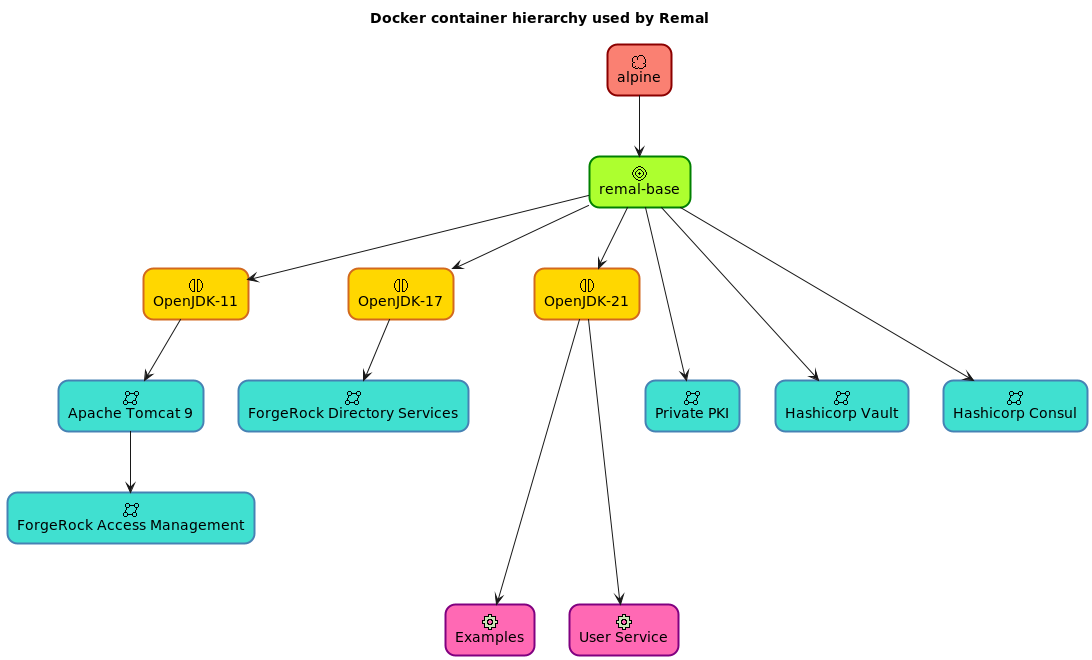
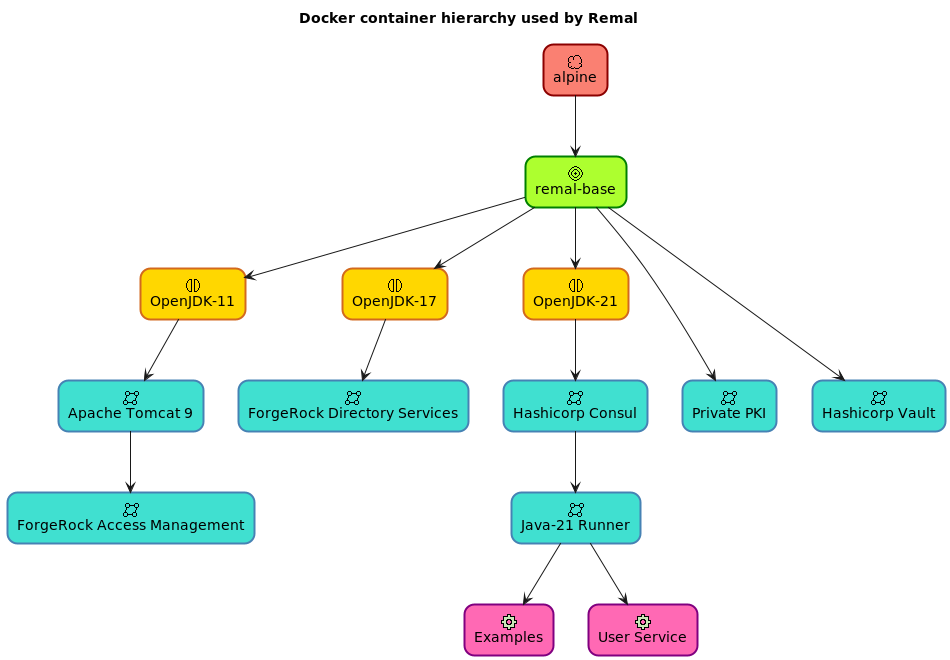
changing java version from 17 to 21 in java-runner

diff --git a/index.html b/index.html
@@ -67,22 +67,27 @@
             <th>Ports</th>
             <th>Commands</th>
         </tr>
-        <!-- User service -->
         <tr class="imagelist-content imagelist-app">
-            <td><span class="imagelist-col-margin">user-service</span></td>
-            <td><span class="imagelist-col-margin">Remal user rest api</span></td>
+            <td><span class="imagelist-col-margin">user-service-1</span></td>
+            <td><span class="imagelist-col-margin">Remal user service rest api</span></td>
             <td>
                 <table>
                     <tr>
-                        <td class="imagelist-port-host">13112</td>
+                        <td class="imagelist-port-host">14112</td>
                         <td>:</td>
                         <td class="imagelist-port-docker">22</td>
                         <td class="imagelist-port-info">(SSH)</td>
                     </tr>
                     <tr>
-                        <td class="imagelist-port-host">13113</td>
+                        <td class="imagelist-port-host">14113</td>
                         <td>:</td>
-                        <td class="imagelist-port-docker">443</td>
+                        <td class="imagelist-port-docker">8000</td>
+                        <td class="imagelist-port-info">(JVM debug)</td>
+                    </tr>
+                    <tr>
+                        <td class="imagelist-port-host">14114</td>
+                        <td>:</td>
+                        <td class="imagelist-port-docker">8443</td>
                         <td class="imagelist-port-info">(HTTPS)</td>
                     </tr>
                     <tr>
@@ -93,7 +98,80 @@
                     </tr>
                 </table>
             </td>
-            <td class="imagelist-command"><span class="imagelist-col-margin"></span></td>
+            <td class="imagelist-command"><span class="imagelist-col-margin">
+                <a href="https://localhost:14114/api/user" target="_blank">https://localhost:14114/api/user</a></span>
+            </td>
+        </tr>
+        <tr class="imagelist-content imagelist-app">
+            <td><span class="imagelist-col-margin">user-service-2</span></td>
+            <td><span class="imagelist-col-margin">Remal user service rest api</span></td>
+            <td>
+                <table>
+                    <tr>
+                        <td class="imagelist-port-host">14122</td>
+                        <td>:</td>
+                        <td class="imagelist-port-docker">22</td>
+                        <td class="imagelist-port-info">(SSH)</td>
+                    </tr>
+                    <tr>
+                        <td class="imagelist-port-host">14123</td>
+                        <td>:</td>
+                        <td class="imagelist-port-docker">8000</td>
+                        <td class="imagelist-port-info">(JVM debug)</td>
+                    </tr>
+                    <tr>
+                        <td class="imagelist-port-host">14124</td>
+                        <td>:</td>
+                        <td class="imagelist-port-docker">8443</td>
+                        <td class="imagelist-port-info">(HTTPS)</td>
+                    </tr>
+                    <tr>
+                        <td class="imagelist-port-host"></td>
+                        <td>:</td>
+                        <td class="imagelist-port-docker">1331</td>
+                        <td class="imagelist-port-info">(container up signal)</td>
+                    </tr>
+                </table>
+            </td>
+            <td class="imagelist-command"><span class="imagelist-col-margin">
+                <a href="https://localhost:14124/api/user" target="_blank">https://localhost:14124/api/user</a></span>
+            </td>
+        </tr>
+        <!-- Hello service -->
+        <tr class="imagelist-content imagelist-app">
+            <td><span class="imagelist-col-margin">hello-service-1</span></td>
+            <td><span class="imagelist-col-margin">Remal hello service rest api</span></td>
+            <td>
+                <table>
+                    <tr>
+                        <td class="imagelist-port-host">14212</td>
+                        <td>:</td>
+                        <td class="imagelist-port-docker">22</td>
+                        <td class="imagelist-port-info">(SSH)</td>
+                    </tr>
+                    <tr>
+                        <td class="imagelist-port-host">14213</td>
+                        <td>:</td>
+                        <td class="imagelist-port-docker">8000</td>
+                        <td class="imagelist-port-info">(JVM debug)</td>
+                    </tr>
+                    <tr>
+                        <td class="imagelist-port-host">14214</td>
+                        <td>:</td>
+                        <td class="imagelist-port-docker">8443</td>
+                        <td class="imagelist-port-info">(HTTPS)</td>
+                    </tr>
+                    <tr>
+                        <td class="imagelist-port-host"></td>
+                        <td>:</td>
+                        <td class="imagelist-port-docker">1331</td>
+                        <td class="imagelist-port-info">(container up signal)</td>
+                    </tr>
+                </table>
+            </td>
+            <td class="imagelist-command"><span class="imagelist-col-margin">
+                <a href="https://localhost:14214/api/hello" target="_blank">https://localhost:14214/api/hello</a></span>
+            </td>
         </tr>
         <!-- HashiCorp Consul -->
         <tr class="imagelist-content imagelist-infra">

diff --git a/modules/templates/template-commons/src/main/java/com/remal/gombi/template/commons/spring/monitoring/MethodCallLogger.java b/modules/templates/template-commons/src/main/java/com/remal/gombi/template/commons/spring/monitoring/MethodCallLogger.java
@@ -63,15 +63,11 @@ public class MethodCallLogger {
 
     private String getReturnValueAsString(Object object) {
         if (Objects.nonNull(object)) {
-            /*return switch (object) {
-                case String s -> String.format("\"%s\"", object);
+            return switch (object) {
+                case String value -> "\"" + value + "\"";
+                case Integer value -> value.toString();
                 default -> object.toString();
-            };*/
-            if (object instanceof String) {
-                return String.format("\"%s\"", object);
-            } else {
-                return object.toString();
-            }
+            };
         }
         return "<null>";
     }

diff --git a/modules/templates/hello-service/src/main/java/com/remal/gombi/template/service/hello/controller/HelloController.java b/modules/templates/hello-service/src/main/java/com/remal/gombi/template/service/hello/controller/HelloController.java
@@ -42,7 +42,7 @@ public class HelloController {
     @LogCall
     public String sayHello() {
         User user = userService.getUser("arnold");
-        return String.format("Hello <b>%s</b>, the time is <b>%s</b>.",
+        return String.format("Hello %s, the time is %s.",
                 user.getUsername(),
                 LocalDateTime.now().format(DATE_TIME_FORMATTER));
     }

diff --git a/docker/README.md b/docker/README.md
@@ -127,20 +127,21 @@ File prefix ranges:
 
 Images and its types:
 
-| image           | type           | range         |
-|-----------------|----------------|---------------|
-| user-service-1  | Application    | 40100 - 40199 |
-| user-service-2  | Application    | 40200 - 40299 |
-| hello-service-1 | Application    | 40300 - 40399 |
-| hcp-consul      | Infrastructure | 30600 - 30699 |
-| hcp-vault       | Infrastructure | 30500 - 30599 |
-| forgerock-am    | Infrastructure | 30400 - 30499 |
-| forgerock-ds    | Infrastructure | 30300 - 30399 |
-| tomcat-9        | Infrastructure | 30200 - 30299 |
-| easy-rsa-pki    | Infrastructure | 30100 - 30199 |
-| openjdk-17      | Core           | 20200 - 20299 |
-| openjdk-11      | Core           | 20100 - 20199 |
-| base            | Base           | 10000 - 19999 |
+| image           | type           | range          |
+|-----------------|----------------|----------------|
+| user-service-1  | Application    | 40100 - 40199  |
+| user-service-2  | Application    | 40200 - 40299  |
+| hello-service-1 | Application    | 40300 - 40399  |
+| hcp-consul      | Infrastructure | 30600 - 30699  |
+| hcp-vault       | Infrastructure | 30500 - 30599  |
+| forgerock-am    | Infrastructure | 30400 - 30499  |
+| forgerock-ds    | Infrastructure | 30300 - 30399  |
+| tomcat-9        | Infrastructure | 30200 - 30299  |
+| easy-rsa-pki    | Infrastructure | 30100 - 30199  |
+| openjdk-21      | Core           | 20300 - 20399 |
+| openjdk-17      | Core           | 20200 - 20299  |
+| openjdk-11      | Core           | 20100 - 20199  |
+| base            | Base           | 10000 - 19999  |
 
 ## Annex 3) Troubleshooting
 **SSH**

diff --git a/docker/application/jar-runner-21/README.md b/docker/application/jar-runner-21/README.md
@@ -1,4 +1,4 @@
-# Remal Image: Java 17 Runner
+# Remal Image: Java 21 Runner
 
 <a href="https://trackgit.com">
   <img src="https://us-central1-trackgit-analytics.cloudfunctions.net/token/ping/lcfhkdub7k2lpj33n2cl" alt="trackgit-views" />
